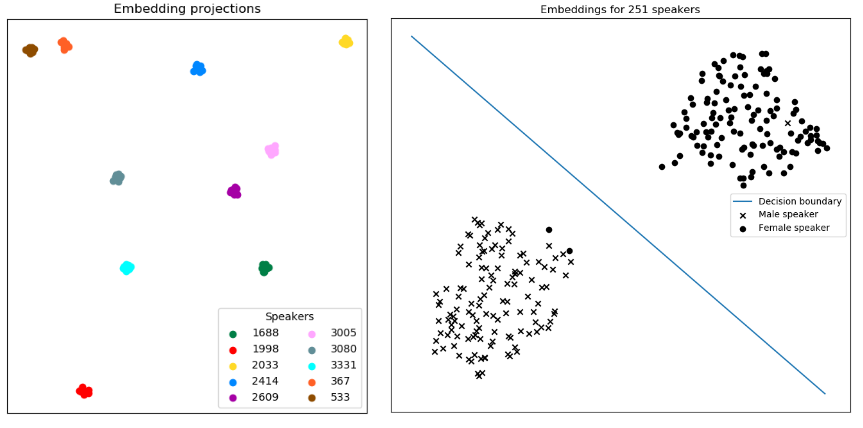
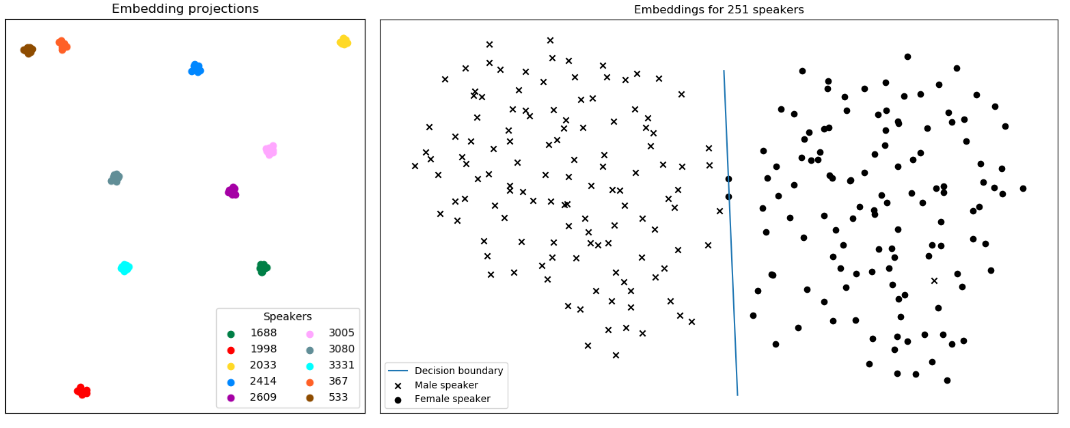
Set min_dist to 1 in demo04

diff --git a/demo04_clustering.py b/demo04_clustering.py
@@ -39,9 +39,12 @@ encoder = VoiceEncoder()
 utterance_embeds = np.array(list(map(encoder.embed_utterance, wavs)))
 
 
-## Project the embeddings in 2D space
+## Project the embeddings in 2D space. 
 _, ax = plt.subplots(figsize=(6, 6))
-projs = plot_projections(utterance_embeds, speakers, ax, colors, markers, False)
+# Passing min_dist=1 to UMAP will make it so the projections don't necessarily need to fit in 
+# clusters, so that you can have a better idea of what the manifold really looks like. 
+projs = plot_projections(utterance_embeds, speakers, ax, colors, markers, False,
+                         min_dist=1)
 ax.set_title("Embeddings for %d speakers" % (len(speakers)))
 ax.scatter([], [], marker="x", c="black", label="Male speaker")
 ax.scatter([], [], marker="o", c="black", label="Female speaker")

diff --git a/demo_utils.py b/demo_utils.py
@@ -87,13 +87,14 @@ def plot_histograms(all_samples, ax=None, names=None, title=""):
     return ax
 
 
-def plot_projections(embeds, speakers, ax=None, colors=None, markers=None, legend=True, title=""):
+def plot_projections(embeds, speakers, ax=None, colors=None, markers=None, legend=True, 
+                     title="", **kwargs):
     if ax is None:
         _, ax = plt.subplots(figsize=(6, 6))
         
     # Compute the 2D projections. You could also project to another number of dimensions (e.g. 
     # for a 3D plot) or use a different different dimensionality reduction like PCA or TSNE.
-    reducer = UMAP()
+    reducer = UMAP(**kwargs)
     projs = reducer.fit_transform(embeds)
     
     # Draw the projections
